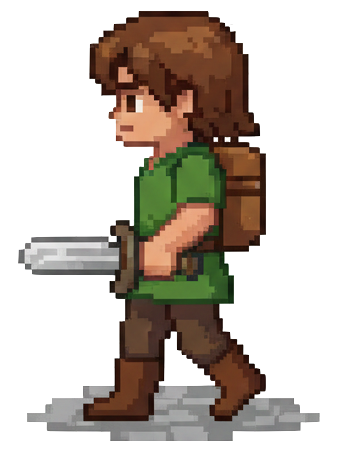
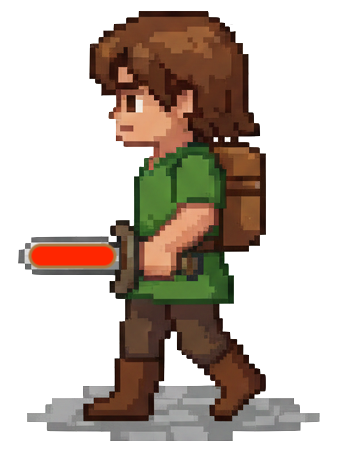
beta 1.10 add attack type by item

Changed region(s): [[0.0618, 0.514, 0.3399, 0.6048]]

diff --git a/entities/player_node.py b/entities/player_node.py
@@ -52,20 +52,12 @@ class PlayerNode(AnimatedNode):
             pygame.draw.circle(img, (240, 240, 240), (radius, radius), radius)
             start_frames = [img]
 
-        # เรียก AnimatedNode ด้วย args แบบ positional (กัน error frame_duration ซ้ำ)
         super().__init__(start_frames, 0.12, True, *groups)
 
         # ตั้งตำแหน่งเริ่มต้น
         self.rect.center = pos
 
         # ---------- Combat stats (RPG style) ----------
-        # ฟิลด์หลักที่เกม RPG นิยมใช้:
-        # - max_hp, hp
-        # - attack (กายภาพ)
-        # - magic  (เวท)
-        # - armor  (เกราะ ลดดาเมจกายภาพ)
-        # - resistances: dict[type, percent] (เช่น {"fire": 0.25})
-        # - crit_chance, crit_multiplier
         self.stats = Stats(
             max_hp=100,
             hp=100,
@@ -116,6 +108,9 @@ class PlayerNode(AnimatedNode):
         # ---------- Shoot cooldown ----------
         self.shoot_cooldown = 0.8
         self.shoot_timer = 0.0
+
+        # ---------- Attack animation timer ----------
+        self.attack_timer: float = 0.0
 
     # ============================================================
     # Animation loading
@@ -168,10 +163,10 @@ class PlayerNode(AnimatedNode):
         # restore HP ตามสัดส่วน
         self.stats.hp = min(self.stats.max_hp, self.stats.max_hp * hp_ratio)
 
-        if getattr(self, "equipment", None) is None:
+        if self.equipment is None:
             return
 
-        # ----- main-hand (weapon) -----
+        # ----- weapon (main_hand) -----
         weapon = self.equipment.get_item("main_hand")
         if weapon:
             if weapon.id == "sword_basic":
@@ -191,7 +186,6 @@ class PlayerNode(AnimatedNode):
         if armor_item:
             if armor_item.id == "shield":
                 self.stats.armor += 6
-                # ถ้าต้องการเพิ่ม resistances เพิ่มได้ เช่น:
                 # self.stats.resistances["physical"] = \
                 #     self.stats.resistances.get("physical", 0.0) + 0.1
 
@@ -224,21 +218,59 @@ class PlayerNode(AnimatedNode):
         else:
             self.velocity.update(0, 0)
 
-        # ย้ายตำแหน่งแบบง่าย ๆ (ถ้าคุณมีระบบ collision แยกแล้ว ค่อยเอาไปผูก)
-        self.rect.x += int(self.velocity.x * dt)
-        self.rect.y += int(self.velocity.y * dt)
+        # ใช้ระบบชนกำแพง แทนการเลื่อนตรง ๆ
+        dx = self.velocity.x * dt
+        dy = self.velocity.y * dt
+        self._move_and_collide(dx, dy)
+
+
+    def _move_and_collide(self, dx: float, dy: float) -> None:
+        """
+        เลื่อนตัวละครตาม dx, dy แล้วเช็คชนกับ self.collision_rects
+        ใช้การแก้ชนแบบทีละแกน (horizontal -> vertical)
+        """
+        # เผื่อกรณียังไม่ได้ถูกเซ็ตจาก GameScene
+        walls = getattr(self, "collision_rects", []) or []
+
+        # ----- แกน X -----
+        if dx != 0:
+            self.rect.x += int(dx)
+            for wall in walls:
+                if self.rect.colliderect(wall):
+                    if dx > 0:   # เดินมาทางขวา ชนกำแพงด้านขวา
+                        self.rect.right = wall.left
+                    else:        # เดินมาทางซ้าย
+                        self.rect.left = wall.right
+
+        # ----- แกน Y -----
+        if dy != 0:
+            self.rect.y += int(dy)
+            for wall in walls:
+                if self.rect.colliderect(wall):
+                    if dy > 0:   # เดินลง
+                        self.rect.bottom = wall.top
+                    else:        # เดินขึ้น
+                        self.rect.top = wall.bottom
+
 
     def _update_animation_state(self) -> None:
-        if self.velocity.length_squared() > 0:
-            self.state = "walk"
-        else:
-            self.state = "idle"
-
+        # อัปเดตทิศทางพื้นฐานจาก vector การหัน
         x, y = self.facing.x, self.facing.y
         if abs(x) > abs(y):
             self.direction = "right" if x > 0 else "left"
         else:
             self.direction = "down" if y >= 0 else "up"
+
+        # ถ้ายังอยู่ในช่วงเล่น animation โจมตี และมีเฟรม attack อยู่ ให้ล็อก state = "attack"
+        if getattr(self, "attack_timer", 0.0) > 0 and ("attack", self.direction) in self.animations:
+            self.state = "attack"
+            return
+
+        # ปกติ: เดิน / ยืน
+        if self.velocity.length_squared() > 0:
+            self.state = "walk"
+        else:
+            self.state = "idle"
 
     def _apply_animation(self) -> None:
         frames = self.animations.get((self.state, self.direction))
@@ -252,7 +284,7 @@ class PlayerNode(AnimatedNode):
     # ============================================================
     def _get_current_weapon_base_damage(self) -> int:
         """
-        base damage สำหรับใช้ยิงธนู
+        base damage สำหรับใช้ยิงธนู/ฟัน
         - มือเปล่า      -> 10
         - sword_basic   -> 15
         - bow_power_1   -> 25
@@ -266,10 +298,53 @@ class PlayerNode(AnimatedNode):
                     return 15
         return 10
 
-    def shoot(self) -> None:
-        if self.shoot_timer > 0:
-            return
+    def _melee_slash(self) -> None:
+        """
+        โจมตีระยะใกล้ (ฟันดาบ / ต่อยมือเปล่า)
+        ใช้ DamagePacket + enemy.take_hit() เหมือน projectile
+        """
+        # ตั้ง state เป็น attack เพื่อเล่น animation ถ้ามี
+        self.state = "attack"
+        # ล็อกสถานะโจมตีช่วงสั้น ๆ เพื่อให้เห็นท่าฟันครบ
+        self.attack_timer = 0.25
 
+        base_damage = self._get_current_weapon_base_damage()
+
+        packet = DamagePacket(
+            base=base_damage,
+            damage_type="physical",
+            scaling_attack=1.0,
+        )
+
+        # สร้าง hitbox ด้านหน้าตัวละคร
+        attack_rect = self.rect.copy()
+        RANGE = 32  # ระยะเอื้อมของดาบ
+
+        if abs(self.facing.x) > abs(self.facing.y):
+            # ซ้าย–ขวา
+            if self.facing.x > 0:
+                attack_rect.x += attack_rect.width  # ขวา
+            else:
+                attack_rect.x -= RANGE              # ซ้าย
+        else:
+            # บน–ล่าง
+            if self.facing.y > 0:
+                attack_rect.y += attack_rect.height  # ล่าง
+            else:
+                attack_rect.y -= RANGE               # บน
+
+        # ขยายกรอบให้ใหญ่ขึ้นหน่อย
+        attack_rect.inflate_ip(10, 10)
+
+        # เช็คทุก enemy ว่าโดนฟันไหม
+        for enemy in self.game.enemies.sprites():
+            if attack_rect.colliderect(enemy.rect):
+                enemy.take_hit(self.stats, packet)
+
+        # cooldown โจมตี
+        self.shoot_timer = self.shoot_cooldown
+
+    def _shoot_projectile(self) -> None:
         from .projectile_node import ProjectileNode
 
         direction = self.facing
@@ -296,6 +371,22 @@ class PlayerNode(AnimatedNode):
         )
 
         self.shoot_timer = self.shoot_cooldown
+
+    def shoot(self) -> None:
+        if self.shoot_timer > 0:
+            return
+
+        # ดูว่า main_hand เป็นอาวุธแบบไหน
+        weapon = None
+        if getattr(self, "equipment", None) is not None:
+            weapon = self.equipment.get_item("main_hand")
+
+        # ถ้ามี bow_xxx อยู่ที่มือหลัก -> ยิงระยะไกล
+        if weapon and weapon.item_type == "weapon" and weapon.id.startswith("bow_"):
+            self._shoot_projectile()
+        else:
+            # ค่าเริ่มต้น = ฟันระยะใกล้ (ดาบ / มือเปล่า)
+            self._melee_slash()
 
     def take_hit(self, attacker_stats: Stats, damage_packet: DamagePacket) -> DamageResult:
         """
@@ -338,6 +429,12 @@ class PlayerNode(AnimatedNode):
             self.shoot_timer -= dt
             if self.shoot_timer < 0:
                 self.shoot_timer = 0
+
+        # ลดเวลาการแสดงท่าโจมตี (attack animation)
+        if getattr(self, "attack_timer", 0.0) > 0:
+            self.attack_timer -= dt
+            if self.attack_timer < 0:
+                self.attack_timer = 0.0
 
         # อินพุต + การเคลื่อนที่ + แอนิเมชัน
         self._handle_input(dt)

diff --git a/scenes/game_scene.py b/scenes/game_scene.py
@@ -163,7 +163,7 @@ class GameScene(BaseScene):
         # HUD (วาดแบบ fixed screen, ไม่ต้องใช้ offset)
         lines = [
             "Game Scene (Camera + Tilemap + Combat)",
-            "WASD - Move | SPACE - Shoot | I - Inventory",
+            "WASD - Move | SPACE - Attack | I - Inventory",
             f"Player HP: {int(self.player.stats.hp)}/{int(self.player.stats.max_hp)}",
             f"Enemies: {len(self.enemies.sprites())}",
         ]
